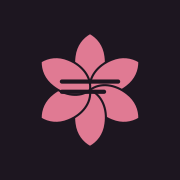
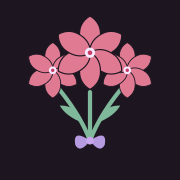
Uygulama simgesini lilyum buketiyle değiştir
Claude-Session: https://claude.ai/code/session_01EbhC6tQYd7v9b5uU5r2yjF

Changed region(s): [[0.1389, 0.0833, 0.8611, 0.8333]]

diff --git a/sw.js b/sw.js
@@ -1,4 +1,4 @@
-const CACHE = 'siir-v11';
+const CACHE = 'siir-v12';
 const SHELL = ['./', 'index.html', 'manifest.webmanifest', 'icon-192.png', 'apple-touch-icon.png'];
 
 self.addEventListener('install', e => {
